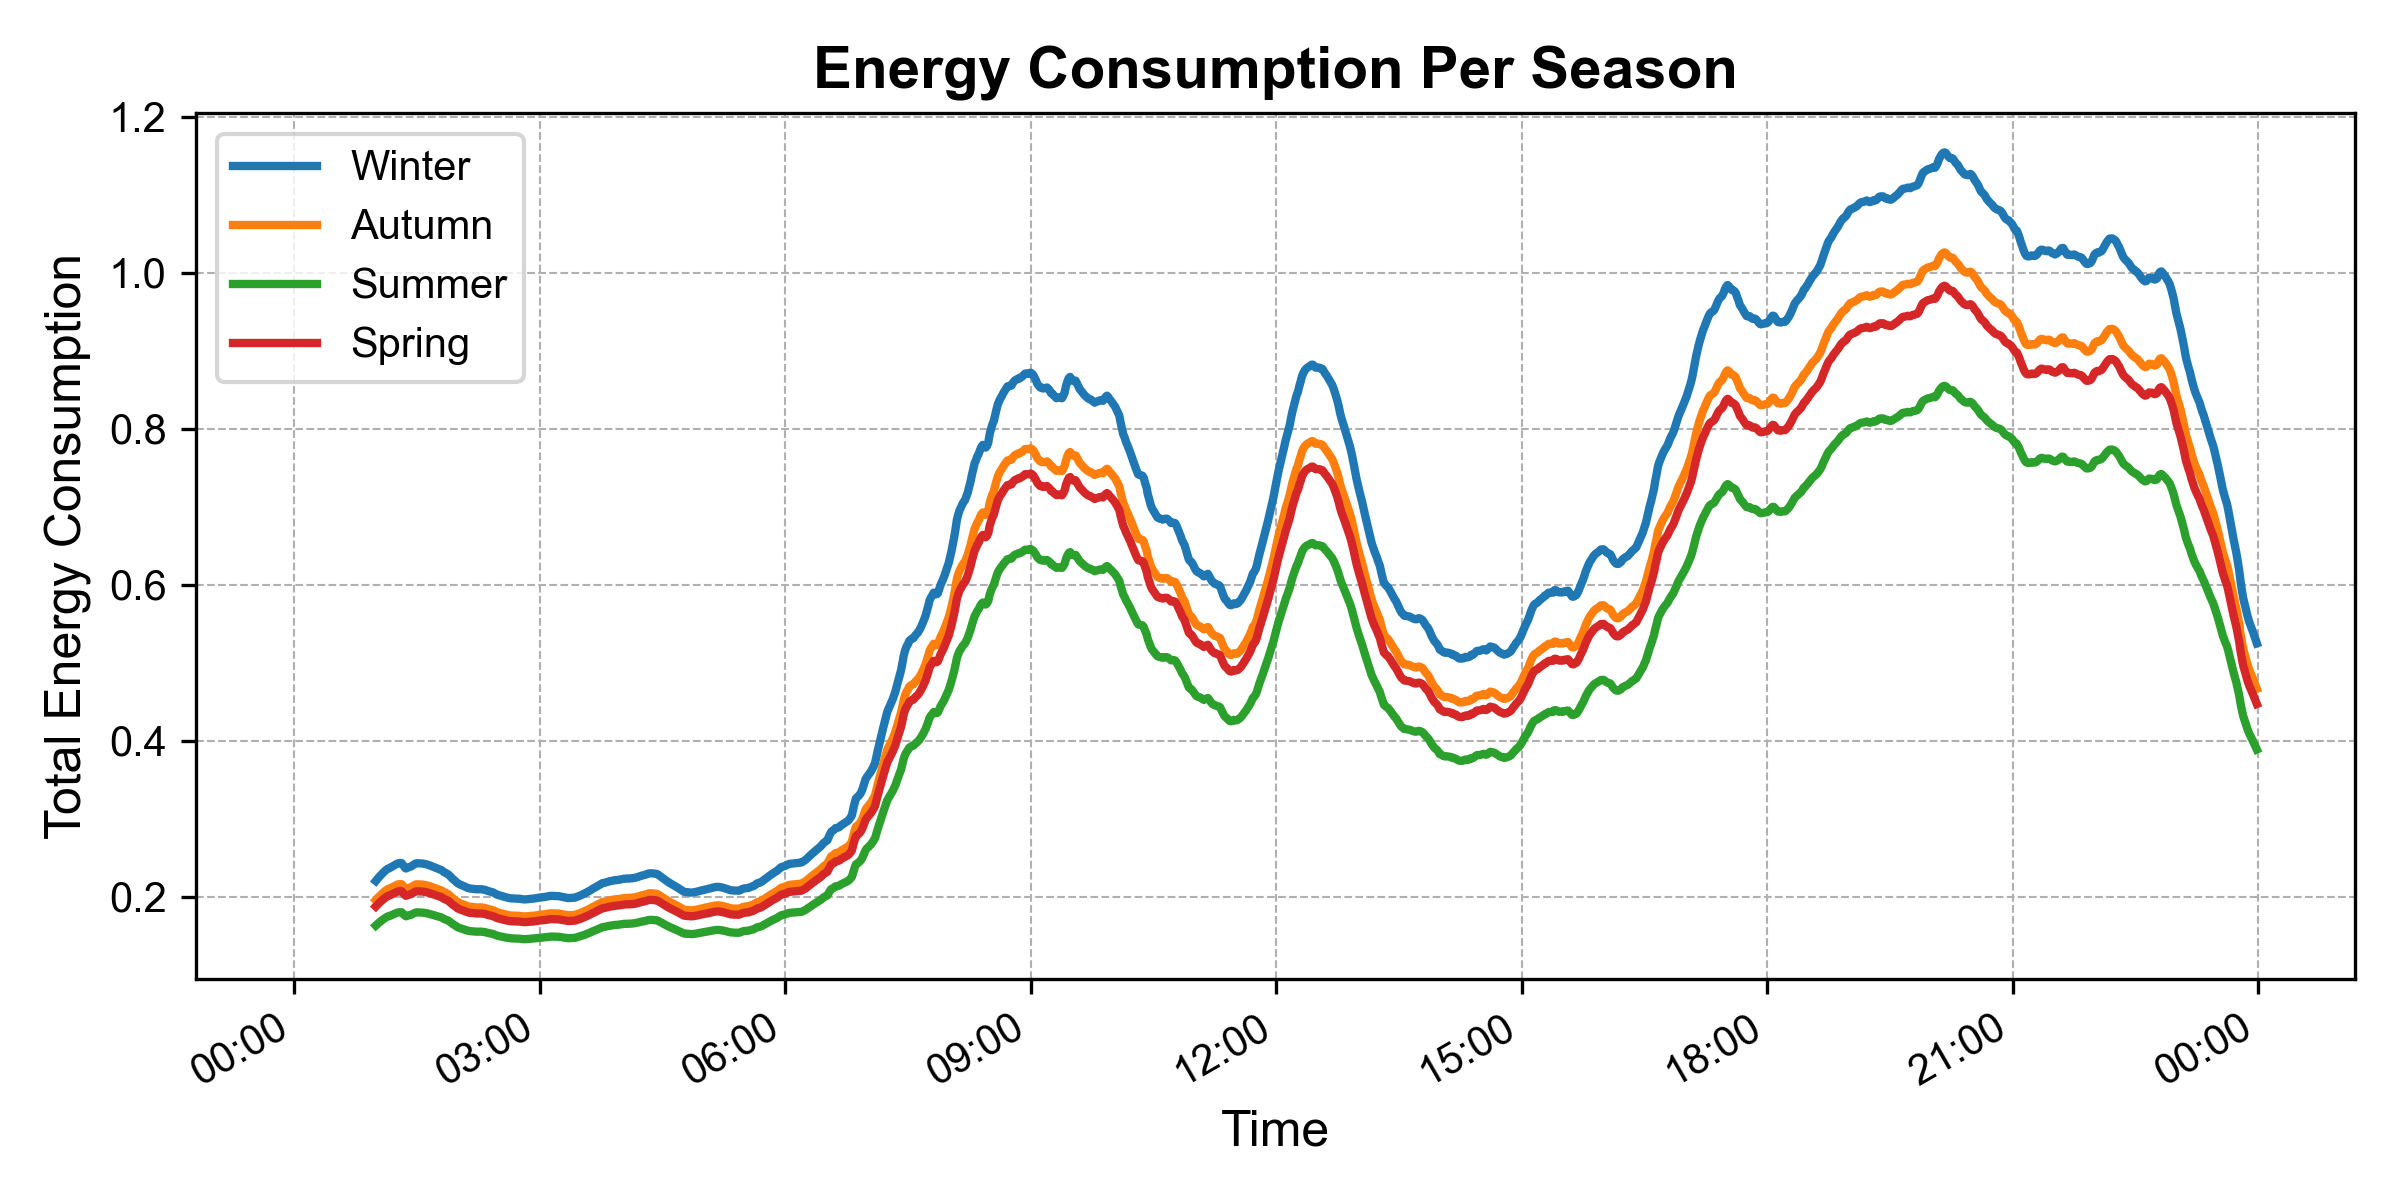
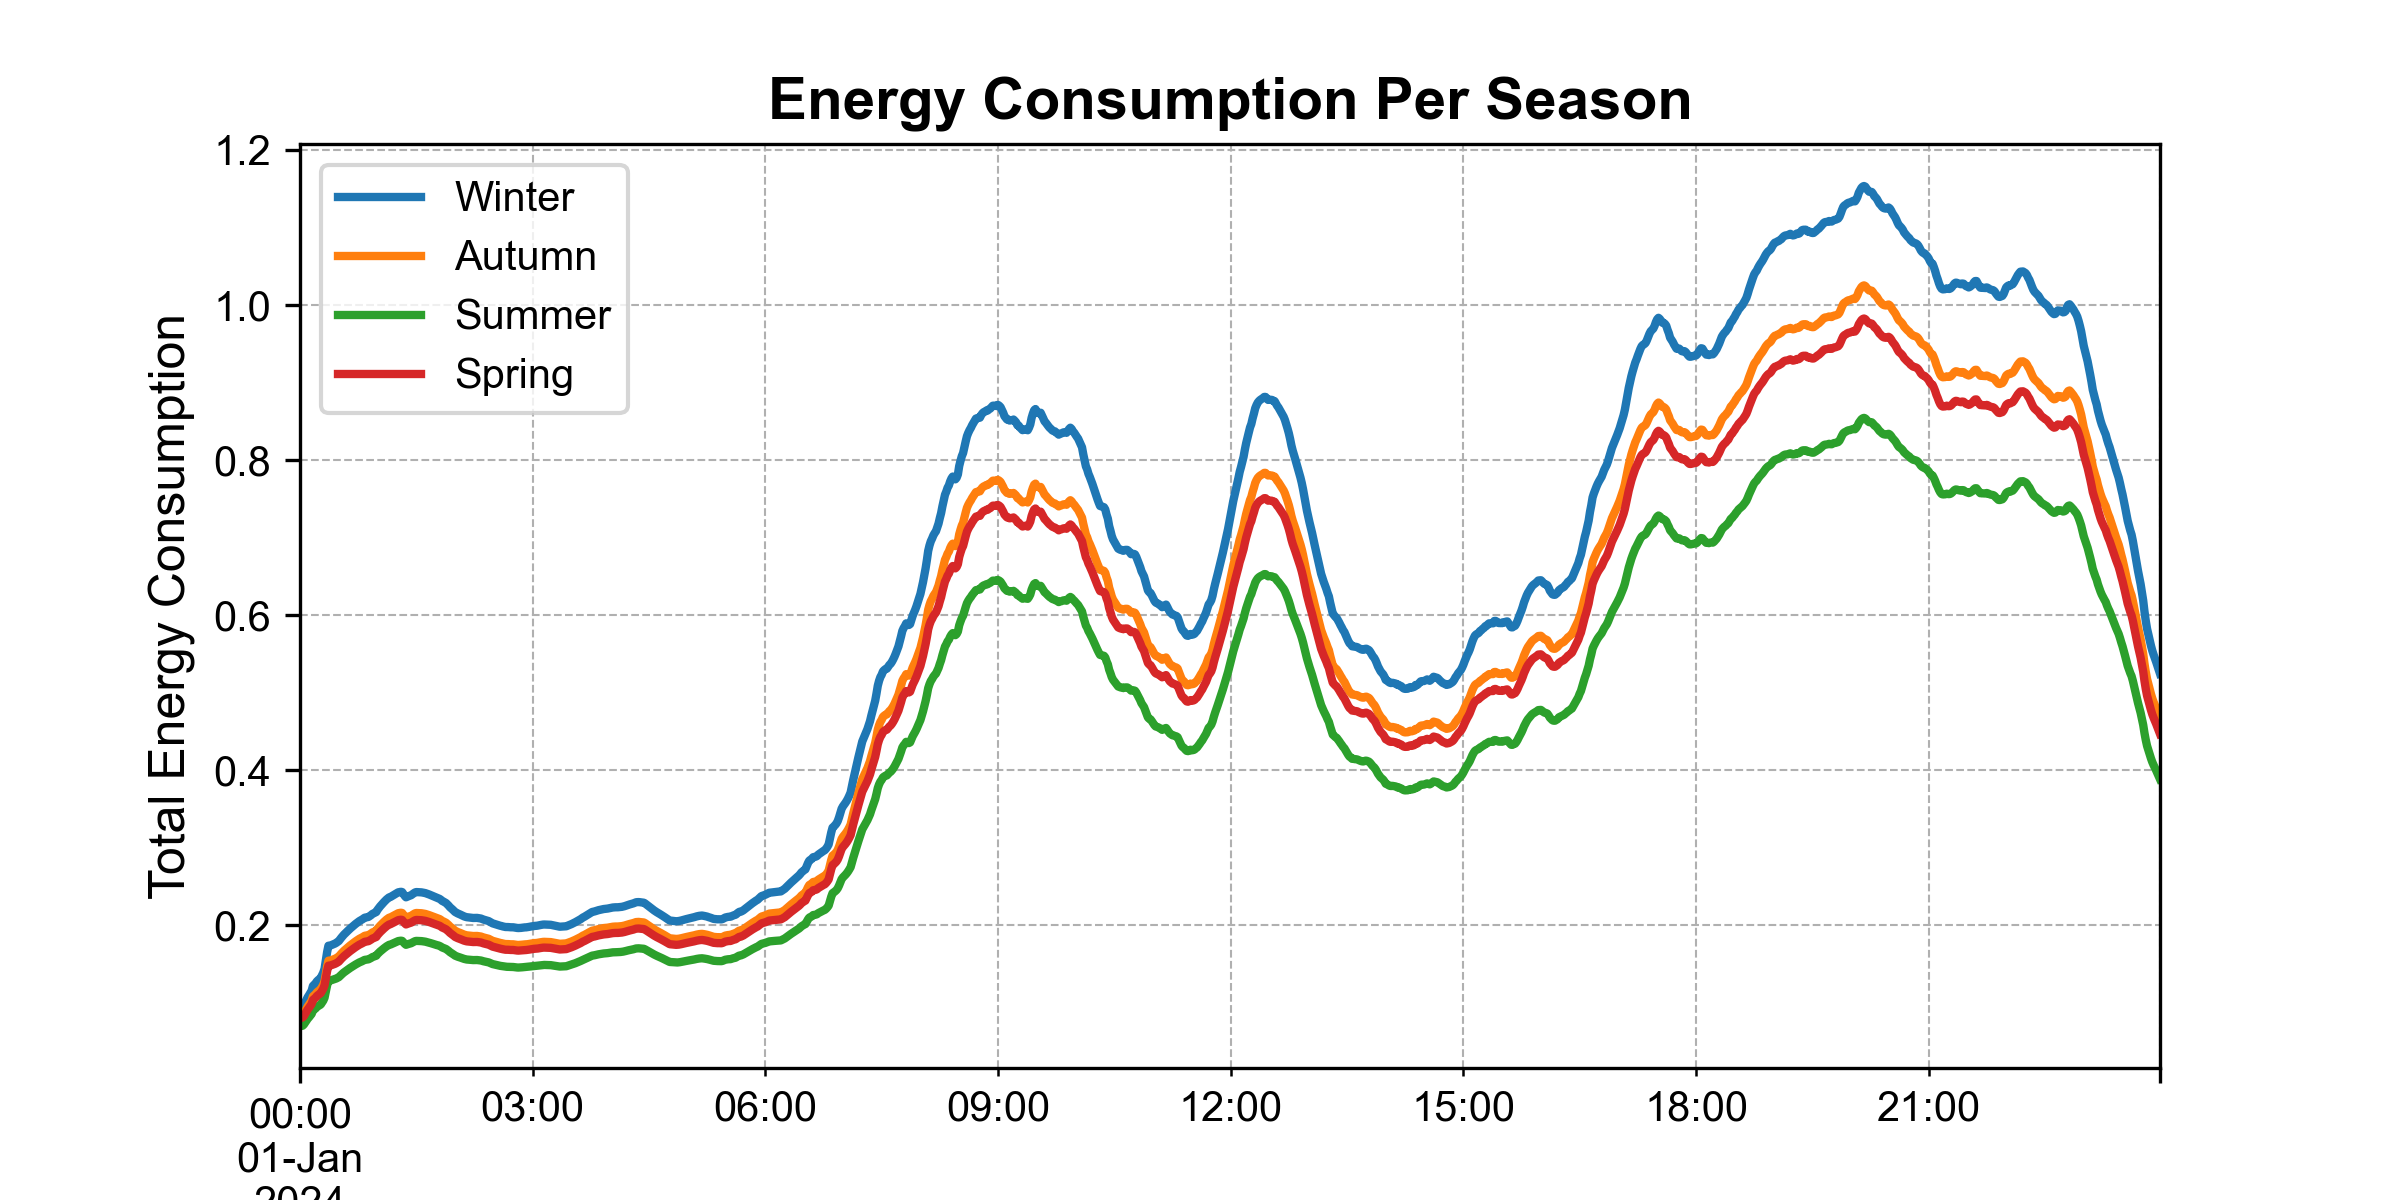
finished load seasonal profiles

Changed region(s): [[0.0, 0.0308, 1.0, 1.0], [0.875, 0.74, 0.9062, 0.7708], [0.2188, 0.6167, 0.25, 0.6475]]

diff --git a/load_std.py b/load_std.py
@@ -4,8 +4,6 @@ import matplotlib.pyplot as plt
 import matplotlib.ticker as ticker
 import matplotlib.dates as mdates
 
-
-
 # Pattern to match your CSV files
 file_pattern = 'load_profiles/*.csv'
 file_paths = glob.glob(file_pattern)
@@ -26,9 +24,6 @@ for i, file_path in enumerate(file_paths):
     # # Convert 'time' to datetime
     temp_df['datetime'] = pd.to_datetime(temp_df['time'], format='%Y-%m-%d %H:%M:%S')
 
-    # # Adjust the datetime for those that were originally '24:00:00'
-    # temp_df.loc[temp_df['datetime'].dt.hour == 0, 'datetime'] += pd.Timedelta(days=1)
-
     # Set 'datetime' as the index
     temp_df.set_index('datetime', inplace=True)
 
@@ -36,7 +31,9 @@ for i, file_path in enumerate(file_paths):
     temp_df.drop('time', axis=1, inplace=True)
 
     # Moving last value to first row
-    temp_df = pd.concat([temp_df.iloc[0:], temp_df.iloc[:-1]], ignore_index=False)
+    last_row = temp_df.iloc[-1:]
+    last_row['mult'] = temp_df['mult'].iloc[0]
+    temp_df = pd.concat([last_row, temp_df.iloc[:-1]], ignore_index=False)
 
     # Rename 'mult' to a unique name using the file index or name
     column_name = f'profile_{i+1}'
@@ -64,6 +61,7 @@ average_profile = normalized_df.mean(axis=1)
 # Step 4: Apply a rolling mean to smooth the data
 rolling_window = 60 # for example, a 10 minute rolling window
 smoothed_total_energy_consumption = average_profile.rolling(window=rolling_window).mean()
+smoothed_total_energy_consumption = average_profile.rolling(window=rolling_window, min_periods=1).mean()
 
 # Step 5: Calculate the seasonal adjustments
 autumn_adjustment = smoothed_total_energy_consumption * 1.20
@@ -72,10 +70,8 @@ spring_adjustment = smoothed_total_energy_consumption * 1.15
 
 # Set the figure size and resolution
 plt.figure(figsize=(8, 4), dpi=300)
-
 # Set the plot font to Arial, which is a sans-serif font
 plt.rc('font', family='Arial')
-
 # Plotting the seasonal adjustments
 winter_adjustment.plot(label='Winter', lw=2)
 autumn_adjustment.plot(label='Autumn', lw=2)
@@ -85,29 +81,12 @@ spring_adjustment.plot(label='Spring', lw=2)
 # Labeling the axes with a larger font for clarity
 plt.xlabel('Time', fontsize=12)
 plt.ylabel('Total Energy Consumption', fontsize=12)
-
 # Setting the title with a larger font size and bold font weight
 plt.title('Energy Consumption Per Season', fontsize=14, fontweight='bold')
-
-# Improving the x-axis ticks to be more readable and appropriately spaced
-plt.gca().xaxis.set_major_locator(mdates.AutoDateLocator())
-plt.gca().xaxis.set_major_formatter(mdates.DateFormatter('%H:%M'))
-
 # Setting a grid for better readability
 plt.grid(True, which='both', linestyle='--', linewidth=0.5)
-
 # Adding a legend with a smaller font size to not overpower the graph
 plt.legend(fontsize=10)
-
-# Removing the top and right spines for a cleaner look
-# plt.gca().spines['top'].set_visible(False)
-# plt.gca().spines['right'].set_visible(False)
-
-# Adjust the layout to make sure everything fits without overlapping
-# plt.tight_layout()
-
 # Save the plot as a high-resolution PNG file
 plt.savefig('IEEE_formatted_plot.png', format='png')
-
-# Show the plot
 plt.show()
